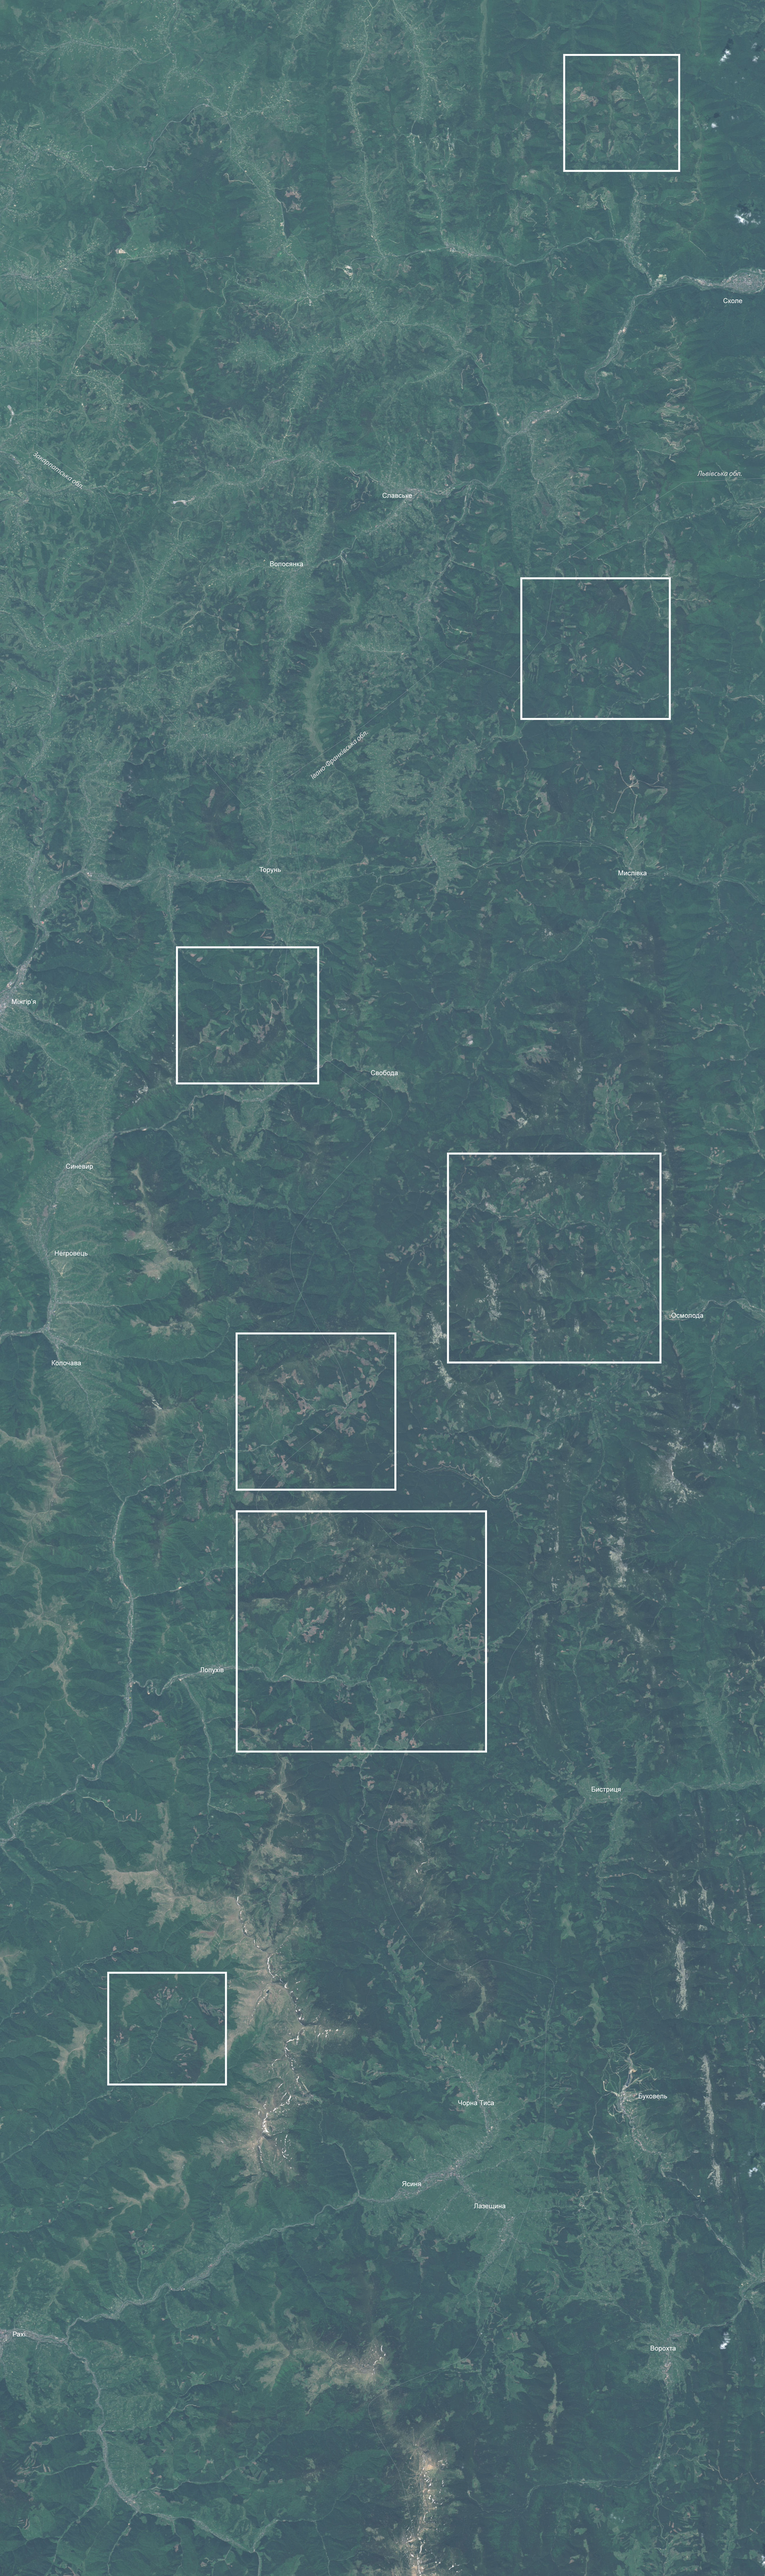
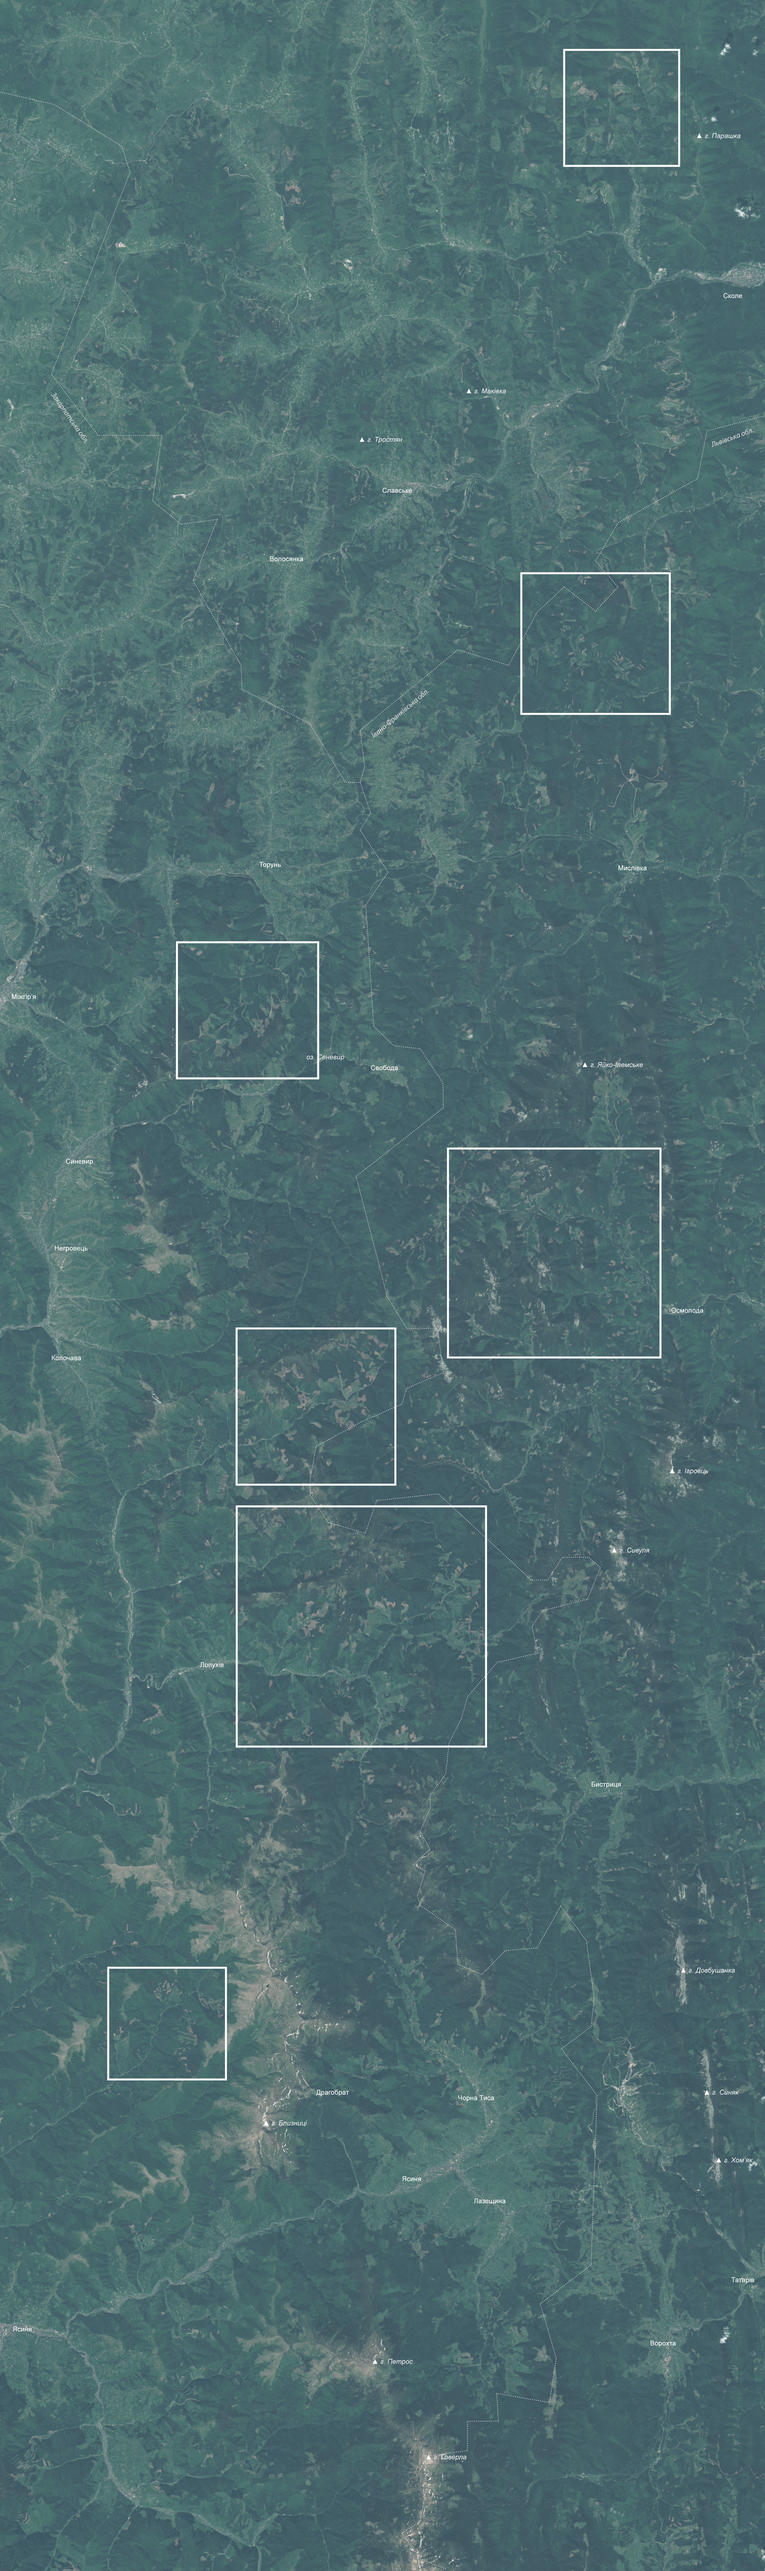
images

diff --git a/index.html b/index.html
@@ -164,16 +164,25 @@
 				<p class='add-info desk'> <span>парку "Сколівські Бескиди"</span></p>
 
 			</div>
-			<div id='g-ai0-2' class='g-Layer_1 g-aiAbs' style='top:19.2956%;left:92.5013%;'>
-				<p class='geoname'>Сколе</p>
-			</div>
-			<div id='g-ai0-3' class='g-Layer_1 g-aiAbs' style='left:4.6745%;top:24.7515%;transform: matrix(0.8192,0.5736,-0.5736,0.8192,0,0) scaleX(1) scaleY(1);transform-origin: left top;-webkit-transform: matrix(0.8192,0.5736,-0.5736,0.8192,0,0) scaleX(1) scaleY(1);-webkit-transform-origin: left top;-ms-transform: matrix(0.8192,0.5736,-0.5736,0.8192,0,0) scaleX(1) scaleY(1);-ms-transform-origin: left top;width: 231.77734375px;'>
-				<p class='region-name'>Закарпатська обл.</p>
-			</div>
-			<div id='g-ai0-4' class='g-Layer_1 g-aiAbs' style='top:25.4264%;left:91.1346%;width:6.5628%;'>
-				<p class='region-name'>Львівська обл.</p>
-			</div>
-			<div id='g-ai0-5' class='g-Layer_1 g-aiAbs' style='top:26.48%;left:56.2382%;'>
+     <div id='g-ai0-1' class='g-Layer_1 g-aiAbs' style='top:13.6665%;left:90.9533%;width:14.2275%;'>
+       <p class='mountain-name'>▲ г. Парашка</p>
+    </div>
+    <div id='g-ai0-2' class='g-Layer_1 g-aiAbs' style='top:19.2956%;left:94.5013%;'>
+      <p class='geoname'>Сколе</p>
+    </div>
+    <div id='g-ai0-3' class='g-Layer_1 g-aiAbs' style='top:22.6972%;left:60.8325%;width:14.2275%;'>
+      <p class='mountain-name'>▲ г. Маківка</p>
+    </div>
+    <div id='g-ai0-4' class='g-Layer_1 g-aiAbs' style='left:7.2096%;top:22.8403%;transform: matrix(0.5736,0.8192,-0.8192,0.5736,0,0) scaleX(1) scaleY(1);transform-origin: left top;-webkit-transform: matrix(0.5736,0.8192,-0.8192,0.5736,0,0) scaleX(1) scaleY(1);-webkit-transform-origin: left top;-ms-transform: matrix(0.5736,0.8192,-0.8192,0.5736,0,0) scaleX(1) scaleY(1);-ms-transform-origin: left top;width: 231.7783203125px;'>
+      <p class='region-name'>Закарпатська обл.</p>
+    </div>
+    <div id='g-ai0-5' class='g-Layer_1 g-aiAbs' style='left:92.8571%;top:24.6281%;transform: matrix(0.9397,-0.342,0.342,0.9397,0,0) scaleX(1) scaleY(1);transform-origin: left top;-webkit-transform: matrix(0.9397,-0.342,0.342,0.9397,0,0) scaleX(1) scaleY(1);-webkit-transform-origin: left top;-ms-transform: matrix(0.9397,-0.342,0.342,0.9397,0,0) scaleX(1) scaleY(1);-ms-transform-origin: left top;width: 177.130859375px;'>
+      <p class='region-name'>Львівська обл.</p>
+    </div>
+    <div id='g-ai0-6' class='g-Layer_1 g-aiAbs' style='top:24.413%;left:46.8588%;width:14.2275%;'>
+      <p class='mountain-name'>▲ г. Тростян</p>
+    </div>
+		<div id='g-ai0-5' class='g-Layer_1 g-aiAbs' style='top:26.48%;left:56.2382%;'>
 				<p class='geoname'>Славське</p>
 			</div>
 			<div id='g-ai0-6' class='g-Layer_1 g-aiAbs' style='top:28.3062%;left:34.2611%;'>
@@ -187,7 +196,7 @@
 				<p>&nbsp;</p>
 				<p>&nbsp;</p>
 			</div>
-			<div id='g-ai0-8' class='g-Layer_1 g-aiAbs' style='left:40.4583%;top:36.2483%;transform: matrix(0.766,-0.6428,0.6428,0.766,0,0) scaleX(1) scaleY(1);transform-origin: left top;-webkit-transform: matrix(0.766,-0.6428,0.6428,0.766,0,0) scaleX(1) scaleY(1);-webkit-transform-origin: left top;-ms-transform: matrix(0.766,-0.6428,0.6428,0.766,0,0) scaleX(1) scaleY(1);-ms-transform-origin: left top;width: 273.1611328125px;'>
+      <div id='g-ai0-9' class='g-Layer_1 g-aiAbs' style='left:48.4253%;top:34.9643%;transform: matrix(0.766,-0.6428,0.6428,0.766,0,0) scaleX(1) scaleY(1);transform-origin: left top;-webkit-transform: matrix(0.766,-0.6428,0.6428,0.766,0,0) scaleX(1) scaleY(1);-webkit-transform-origin: left top;-ms-transform: matrix(0.766,-0.6428,0.6428,0.766,0,0) scaleX(1) scaleY(1);-ms-transform-origin: left top;width: 273.16015625px;'>
 				<p class='region-name'>Івано-Франківська обл.</p>
 			</div>
 			<div id='g-ai0-9' class='g-Layer_1 g-aiAbs' style='top:39.4341%;left:33.8579%;'>
@@ -206,6 +215,12 @@
 			</div>
 			<div id='g-ai0-12' class='g-Layer_1 g-aiAbs' style='top:44.11%;left:1.4756%;'>
 				<p class='geoname'>Miжгір&rsquo;я</p>
+			</div>
+      <div id='g-ai0-13' class='g-Layer_1 g-aiAbs' style='top:46.2773%;left:40.0191%;width:8.0026%;'>
+				<p class='mountain-name'>оз. Сеневир</p>
+			</div>
+			<div id='g-ai0-14' class='g-Layer_1 g-aiAbs' style='top:46.5483%;left:76.004%;width:14.2275%;'>
+				<p class='mountain-name'>▲ г. Яйко-Ілемське</p>
 			</div>
 			<div id='g-ai0-13' class='g-Layer_1 g-aiAbs' style='top:46.6285%;left:48.4253%;'>
 				<p class='geoname'>Свобода</p>
@@ -230,6 +245,12 @@
 			<div id='g-ai0-18' class='g-Layer_1 g-aiAbs' style='top:56.8934%;left:6.6877%;'>
 				<p class='geoname'>Колочава</p>
 			</div>
+      <div id='g-ai0-20' class='g-Layer_1 g-aiAbs' style='top:60.9272%;left:87.3876%;width:14.2275%;'>
+				<p class='mountain-name'>▲ г. Ігровeць</p>
+			</div>
+			<div id='g-ai0-21' class='g-Layer_1 g-aiAbs' style='top:63.7367%;left:79.8341%;width:14.2275%;'>
+				<p class='mountain-name'>▲ г. Сивуля</p>
+			</div>
 			<div id='rec5' class='g-Layer_1 g-aiAbs recs' style='top:58.5089%;left:54.052%;width:27.0487%;'>
 				<p class='data-text desk'>Загальна площа - <b>7 692 га</b></p>
 				<p class='data-text mob'>Площа вирубок - <b>652,4 га (8,5%)</b></p>
@@ -249,6 +270,15 @@
 			<div id='g-ai0-21' class='g-Layer_1 g-aiAbs' style='top:68.1818%;left:26.1208%;'>
 				<p class='geoname'>Лопухів</p>
 			</div>
+      <div id='g-ai0-24' class='g-Layer_1 g-aiAbs' style='top:78.6073%;left:88.8585%;width:14.2275%;'>
+				<p class='mountain-name'>▲ г. Довбушанка</p>
+			</div>
+			<div id='g-ai0-25' class='g-Layer_1 g-aiAbs' style='top:82.932%;left:41.3109%;width:14.2289%;'>
+				<p class='geoname'>Драгобрат</p>
+			</div>
+			<div id='g-ai0-26' class='g-Layer_1 g-aiAbs' style='top:82.932%;left:91.9337%;width:14.2275%;'>
+				<p class='mountain-name'>▲ г. Синяк</p>
+			</div>
 			<div id='g-ai0-22' class='g-Layer_1 g-aiAbs' style='top:71.9948%;left:77.4508%;'>
 				<p class='geoname'>Бистриця</p>
 			</div>
@@ -266,17 +296,32 @@
 			<div id='g-ai0-25' class='g-Layer_1 g-aiAbs' style='top:83.0925%;left:59.837%;'>
 				<p class='geoname'>Чорна Тиса</p>
 			</div>
+      <div id='g-ai0-28' class='g-Layer_1 g-aiAbs' style='top:84.0257%;left:34.3275%;width:14.2275%;'>
+				<p class='mountain-name'>▲ г. Близниці</p>
+			</div>
+			<div id='g-ai0-29' class='g-Layer_1 g-aiAbs' style='top:85.3301%;left:93.4898%;width:14.2275%;'>
+				<p class='mountain-name'>▲ г. Хом&rsquo;як</p>
+			</div>
 			<div id='g-ai0-26' class='g-Layer_1 g-aiAbs' style='top:85.8118%;left:51.5376%;'>
 				<p class='geoname'>Ясиня</p>
 			</div>
 			<div id='g-ai0-27' class='g-Layer_1 g-aiAbs' style='top:86.7449%;left:61.9118%;'>
 				<p class='geoname'>Лазещина</p>
 			</div>
+      <div id='g-ai0-32' class='g-Layer_1 g-aiAbs' style='top:89.5746%;left:95.564%;width:14.2289%;'>
+      <p class='geoname'>Татарів</p>
+    </div>
 			<div id='g-ai0-28' class='g-Layer_1 g-aiAbs' style='top:91.6616%;left:1.5932%;'>
 				<p class='geoname'>Рахів</p>
 			</div>
-      <div id='g-ai0-28' class='g-Layer_1 g-aiAbs' style='top:97%;left:1.5932%;'>
-      <p class="methods" style='top:97%;left:84%;'> Для аналізу використовувались супутникові дані Landsat8 від 5 червня 2015 року. Підрахунок площі вирубок здійснювався методом Land Cover Classification, точність моделі 97.7%.  </p>
+      <div id='g-ai0-35' class='g-Layer_1 g-aiAbs' style='top:92.4644%;left:48.555%;width:14.2275%;'>
+        <p class='mountain-name'>▲ г. Петрос</p>
+      </div>
+      <div id='g-ai0-36' class='g-Layer_1 g-aiAbs' style='top:95.8459%;left:55.5576%;width:14.2275%;'>
+        <p class='mountain-name'>▲ г. Говерла</p>
+      </div>
+      <div id='g-ai0-28' class='g-Layer_1 g-aiAbs' style='top:98.5%;left:1.5932%;'>
+      <p class="methods" style='top:99%;left:84%;'> Для аналізу використовувались супутникові дані Landsat8 від 5 червня 2015 року. Підрахунок площі вирубок здійснювався методом Land Cover Classification, точність моделі 97.7%.  </p>
       </div>
       <div id='g-ai0-29' class='g-Layer_1 g-aiAbs' style='top:91.7821%;left:84.9574%;'>
 				<p class='geoname'>Ворохта</p>

diff --git a/css/application.css b/css/application.css
@@ -452,9 +452,24 @@ h3 {
   line-height: 0.5em;
   font-weight: normal;
   color: #fff;
-  opacity: 0.6; }
+  opacity: 0.8; }
   @media (max-width: 768px) {
     #g-main-2015_svg-Artboard_1 .geoname {
+      font-size: 0.9em;
+      line-height: 1.2em;
+      font-weight: normal;
+      color: #fff;
+      opacity: 0.4; } }
+
+#g-main-2015_svg-Artboard_1 .mountain-name {
+  font-size: 1.3em;
+  line-height: 0.5em;
+  font-weight: normal;
+  color: #fff;
+  font-style: italic;
+  opacity: 0.6; }
+  @media (max-width: 768px) {
+    #g-main-2015_svg-Artboard_1 .mountain-name {
       font-size: 0.9em;
       line-height: 1.2em;
       font-weight: normal;

diff --git a/scss/application.scss b/scss/application.scss
@@ -221,6 +221,17 @@ overflow: hidden;
 
 #g-main-2015_svg-Artboard_1 .geoname {
   @include text(1.3em, 0.5em, normal, $white);
+  opacity: 0.8;
+  @media #{$brk-narrow} {
+   @include text(0.9em, 1.2em, normal, $white);
+   opacity: 0.4;
+  }
+}
+
+
+#g-main-2015_svg-Artboard_1 .mountain-name {
+  @include text(1.3em, 0.5em, normal, $white);
+  font-style: italic;
   opacity: 0.6;
   @media #{$brk-narrow} {
    @include text(0.9em, 1.2em, normal, $white);
